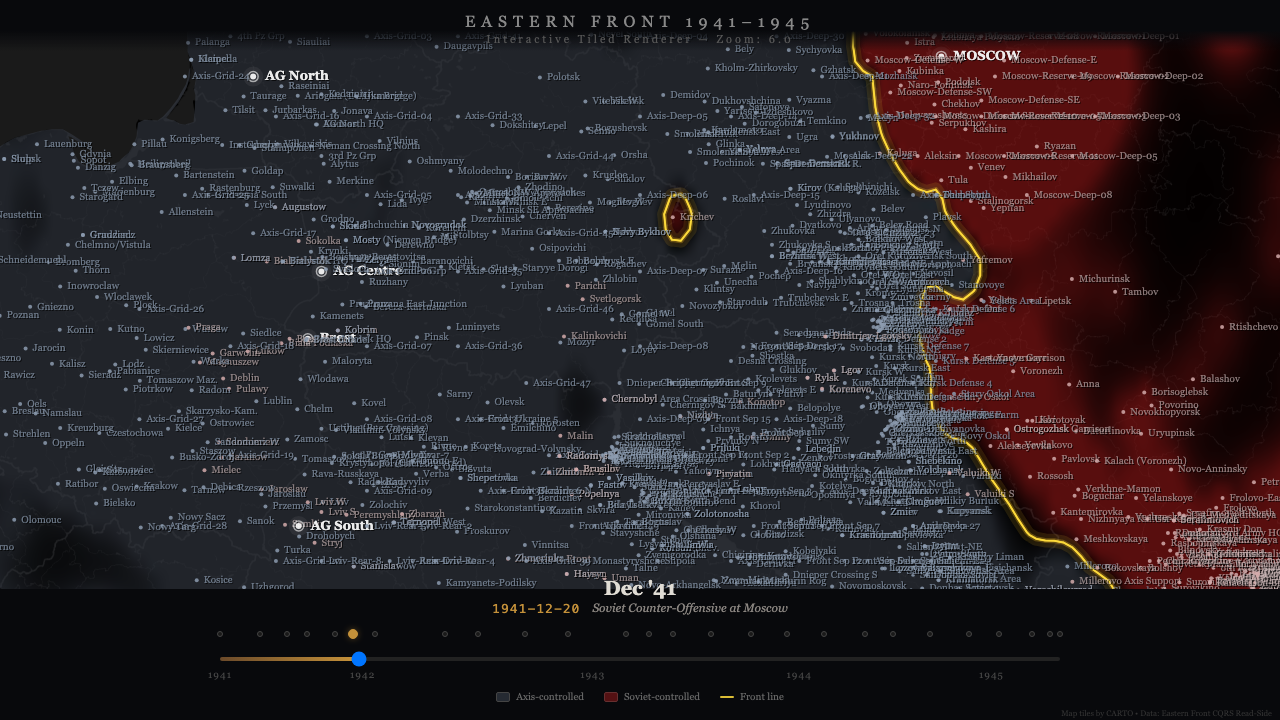
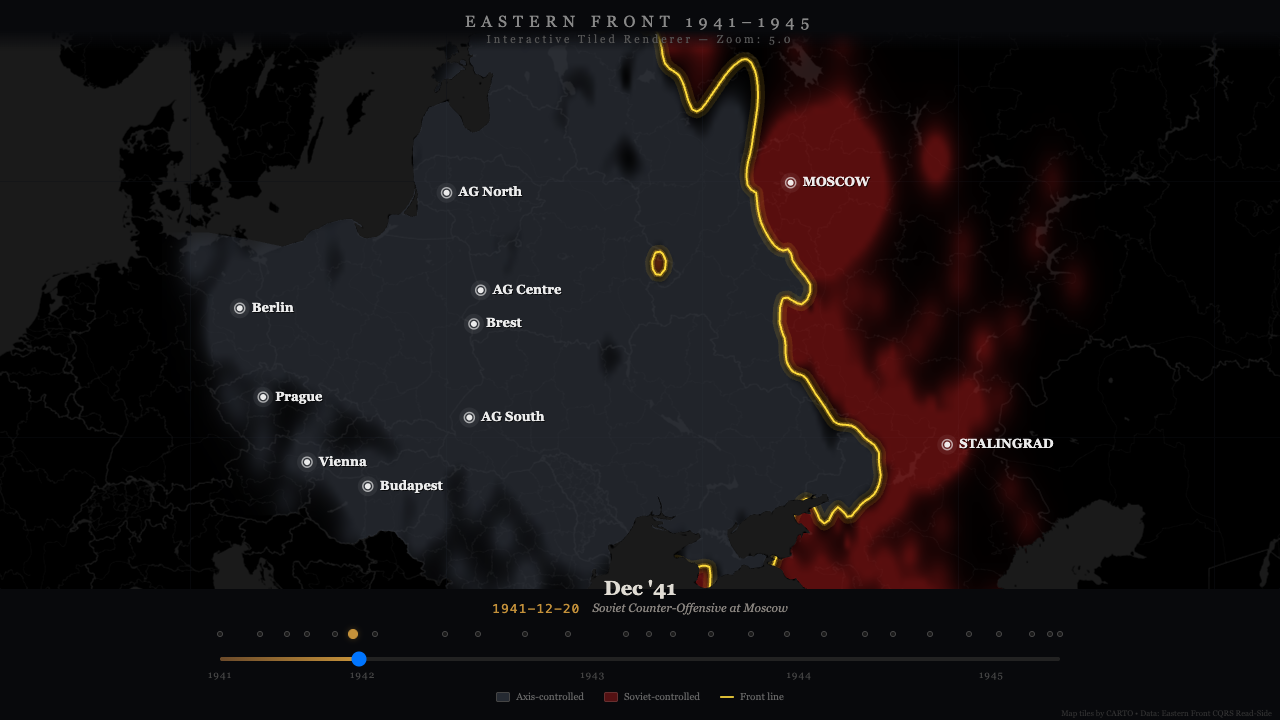
Zoomed-out captures and stripped-down viewer
- Recaptured all 26 keyframes at zoom level 5 (full front visible)
- Removed duplicate controls — the app's own timeline is in the screenshots
- Viewer is now just the image with subtle hover arrows and keyboard nav

diff --git a/map/index.html b/map/index.html
@@ -6,205 +6,63 @@
 <title>The Eastern Front 1941–1945 — Interactive Map</title>
 <style>
   * { margin: 0; padding: 0; box-sizing: border-box; }
-  body { background: #0a0a0f; color: #ccc; font-family: -apple-system, BlinkMacSystemFont, 'Segoe UI', sans-serif; overflow: hidden; height: 100vh; display: flex; flex-direction: column; }
-
-  /* Map frame */
-  #map-area {
-    flex: 1; position: relative; overflow: hidden; background: #0a0a0f;
+  body {
+    background: #0a0a0f; overflow: hidden; height: 100vh;
     display: flex; align-items: center; justify-content: center;
+    user-select: none;
   }
   #frame {
-    max-width: 100%; max-height: 100%; object-fit: contain;
-    transition: opacity 0.3s ease;
+    max-width: 100%; max-height: 100vh; object-fit: contain;
+    display: block;
   }
-  #frame.loading { opacity: 0.4; }
-
-  /* Preload hint */
-  #preload { display: none; }
-
-  /* Timeline */
-  #timeline {
-    height: 88px; background: #111118; border-top: 1px solid #222;
-    display: flex; flex-direction: column; align-items: center; justify-content: center;
-    padding: 8px 20px; flex-shrink: 0;
-  }
-  #date-label {
-    font-size: 14px; color: #d4a853; letter-spacing: 0.15em; text-transform: uppercase;
-    font-weight: 600; min-height: 20px; text-align: center;
-  }
-  #date-sublabel { font-size: 12px; color: #888; margin-bottom: 8px; min-height: 18px; text-align: center; }
-
-  #slider-row { display: flex; align-items: center; gap: 12px; width: 100%; max-width: 900px; }
-
-  #timeline-slider {
-    flex: 1; -webkit-appearance: none; appearance: none;
-    height: 4px; background: #333; border-radius: 2px; outline: none; cursor: pointer;
-  }
-  #timeline-slider::-webkit-slider-thumb {
-    -webkit-appearance: none; width: 16px; height: 16px;
-    background: #d4a853; border-radius: 50%; cursor: grab;
-    box-shadow: 0 0 6px rgba(212,168,83,0.4);
-  }
-  #timeline-slider::-moz-range-thumb {
-    width: 16px; height: 16px; background: #d4a853; border-radius: 50%;
-    cursor: grab; border: none; box-shadow: 0 0 6px rgba(212,168,83,0.4);
-  }
-
-  #play-btn {
-    width: 36px; height: 36px; background: none; border: 1px solid #444;
-    border-radius: 50%; color: #d4a853; cursor: pointer; font-size: 14px;
+  /* Subtle nav arrows, visible on hover */
+  .nav {
+    position: fixed; top: 0; width: 80px; height: 100%;
     display: flex; align-items: center; justify-content: center;
-    transition: border-color 0.2s;
+    cursor: pointer; opacity: 0; transition: opacity 0.3s;
+    z-index: 10;
   }
-  #play-btn:hover { border-color: #d4a853; }
-
-  .date-range { font-size: 10px; color: #555; white-space: nowrap; letter-spacing: 0.1em; }
-
-  /* Tick marks */
-  #ticks {
-    display: flex; width: 100%; max-width: 900px; justify-content: space-between;
-    padding: 0 24px; margin-top: 4px;
-  }
-  .tick {
-    font-size: 8px; color: #444; letter-spacing: 0.05em; cursor: pointer;
-    transition: color 0.2s;
-  }
-  .tick:hover { color: #d4a853; }
-  .tick.active { color: #d4a853; font-weight: 600; }
-
-  /* Source link */
-  #source {
-    position: absolute; bottom: 96px; right: 12px; font-size: 10px;
-    color: #444; text-decoration: none; letter-spacing: 0.1em;
-    transition: color 0.2s;
-  }
-  #source:hover { color: #d4a853; }
+  .nav:hover { opacity: 1; }
+  .nav svg { width: 28px; height: 28px; fill: rgba(212,168,83,0.6); }
+  #prev { left: 0; }
+  #next { right: 0; }
 </style>
 </head>
 <body>
 
-<div id="map-area">
-  <img id="frame" alt="Eastern Front Map">
+<div id="prev" class="nav" onclick="go(-1)">
+  <svg viewBox="0 0 24 24"><path d="M15.41 7.41L14 6l-6 6 6 6 1.41-1.41L10.83 12z"/></svg>
 </div>
 
-<a id="source" href="https://github.com/miguelemosreverte/ww2-map" target="_blank">SOURCE &rarr;</a>
+<img id="frame" alt="Eastern Front Map">
 
-<div id="timeline">
-  <div id="date-label"></div>
-  <div id="date-sublabel"></div>
-  <div id="slider-row">
-    <button id="play-btn" title="Play/Pause (Space)">&#9654;</button>
-    <span class="date-range" id="date-start"></span>
-    <input type="range" id="timeline-slider" min="0" max="25" value="0" step="1">
-    <span class="date-range" id="date-end"></span>
-  </div>
-  <div id="ticks"></div>
+<div id="next" class="nav" onclick="go(1)">
+  <svg viewBox="0 0 24 24"><path d="M8.59 16.59L10 18l6-6-6-6-1.41 1.41L13.17 12z"/></svg>
 </div>
-
-<div id="preload"></div>
 
 <script>
 const FRAME_BASE = '../map-frames';
 let dates = [];
-let currentIdx = 0;
-let playing = false;
-let playTimer = null;
-let preloaded = {};
-
-const frame = document.getElementById('frame');
-const slider = document.getElementById('timeline-slider');
-const dateLabel = document.getElementById('date-label');
-const dateSublabel = document.getElementById('date-sublabel');
-const dateStart = document.getElementById('date-start');
-const dateEnd = document.getElementById('date-end');
-const playBtn = document.getElementById('play-btn');
-const ticksDiv = document.getElementById('ticks');
+let idx = 0;
+let imgs = {};
 
 async function init() {
   const res = await fetch('../map-data/dates.json');
   dates = await res.json();
-
-  slider.max = dates.length - 1;
-  dateStart.textContent = dates[0].date.slice(0, 4);
-  dateEnd.textContent = dates[dates.length - 1].date.slice(0, 4);
-
-  // Build year tick marks
-  const years = new Set();
-  dates.forEach((d, i) => {
-    const y = d.date.slice(0, 4);
-    if (!years.has(y)) {
-      years.add(y);
-      const tick = document.createElement('span');
-      tick.className = 'tick';
-      tick.textContent = y;
-      tick.onclick = () => goTo(i);
-      tick.dataset.idx = i;
-      ticksDiv.appendChild(tick);
-    }
-  });
-
-  // Preload all frames
-  for (const d of dates) {
-    const img = new Image();
-    img.src = `${FRAME_BASE}/${d.date}.png`;
-    preloaded[d.date] = img;
-  }
-
-  goTo(0);
+  dates.forEach(d => { const i = new Image(); i.src = `${FRAME_BASE}/${d.date}.png`; imgs[d.date] = i; });
+  show(0);
 }
 
-function goTo(idx) {
-  if (idx < 0 || idx >= dates.length) return;
-  currentIdx = idx;
-  slider.value = idx;
-
-  const d = dates[idx];
-  dateLabel.textContent = d.label + '  \u2014  ' + d.date;
-  dateSublabel.textContent = d.sublabel;
-
-  // Update frame
-  const img = preloaded[d.date];
-  if (img && img.complete) {
-    frame.src = img.src;
-    frame.classList.remove('loading');
-  } else {
-    frame.classList.add('loading');
-    frame.src = `${FRAME_BASE}/${d.date}.png`;
-    frame.onload = () => frame.classList.remove('loading');
-  }
-
-  // Update ticks
-  const year = d.date.slice(0, 4);
-  document.querySelectorAll('.tick').forEach(t => {
-    const tickYear = t.textContent;
-    t.classList.toggle('active', tickYear === year);
-  });
+function show(i) {
+  idx = Math.max(0, Math.min(dates.length - 1, i));
+  document.getElementById('frame').src = `${FRAME_BASE}/${dates[idx].date}.png`;
 }
 
-slider.addEventListener('input', () => goTo(parseInt(slider.value)));
+function go(delta) { show(idx + delta); }
 
-playBtn.addEventListener('click', () => {
-  playing = !playing;
-  playBtn.innerHTML = playing ? '&#9646;&#9646;' : '&#9654;';
-  if (playing) {
-    playTimer = setInterval(() => {
-      if (currentIdx >= dates.length - 1) {
-        playing = false;
-        playBtn.innerHTML = '&#9654;';
-        clearInterval(playTimer);
-        return;
-      }
-      goTo(currentIdx + 1);
-    }, 2000);
-  } else {
-    clearInterval(playTimer);
-  }
-});
-
-document.addEventListener('keydown', (e) => {
-  if (e.key === 'ArrowRight' || e.key === 'ArrowUp') { e.preventDefault(); goTo(currentIdx + 1); }
-  if (e.key === 'ArrowLeft' || e.key === 'ArrowDown') { e.preventDefault(); goTo(currentIdx - 1); }
-  if (e.key === ' ') { e.preventDefault(); playBtn.click(); }
+document.addEventListener('keydown', e => {
+  if (e.key === 'ArrowRight' || e.key === 'ArrowUp') { e.preventDefault(); go(1); }
+  if (e.key === 'ArrowLeft' || e.key === 'ArrowDown') { e.preventDefault(); go(-1); }
 });
 
 init();
